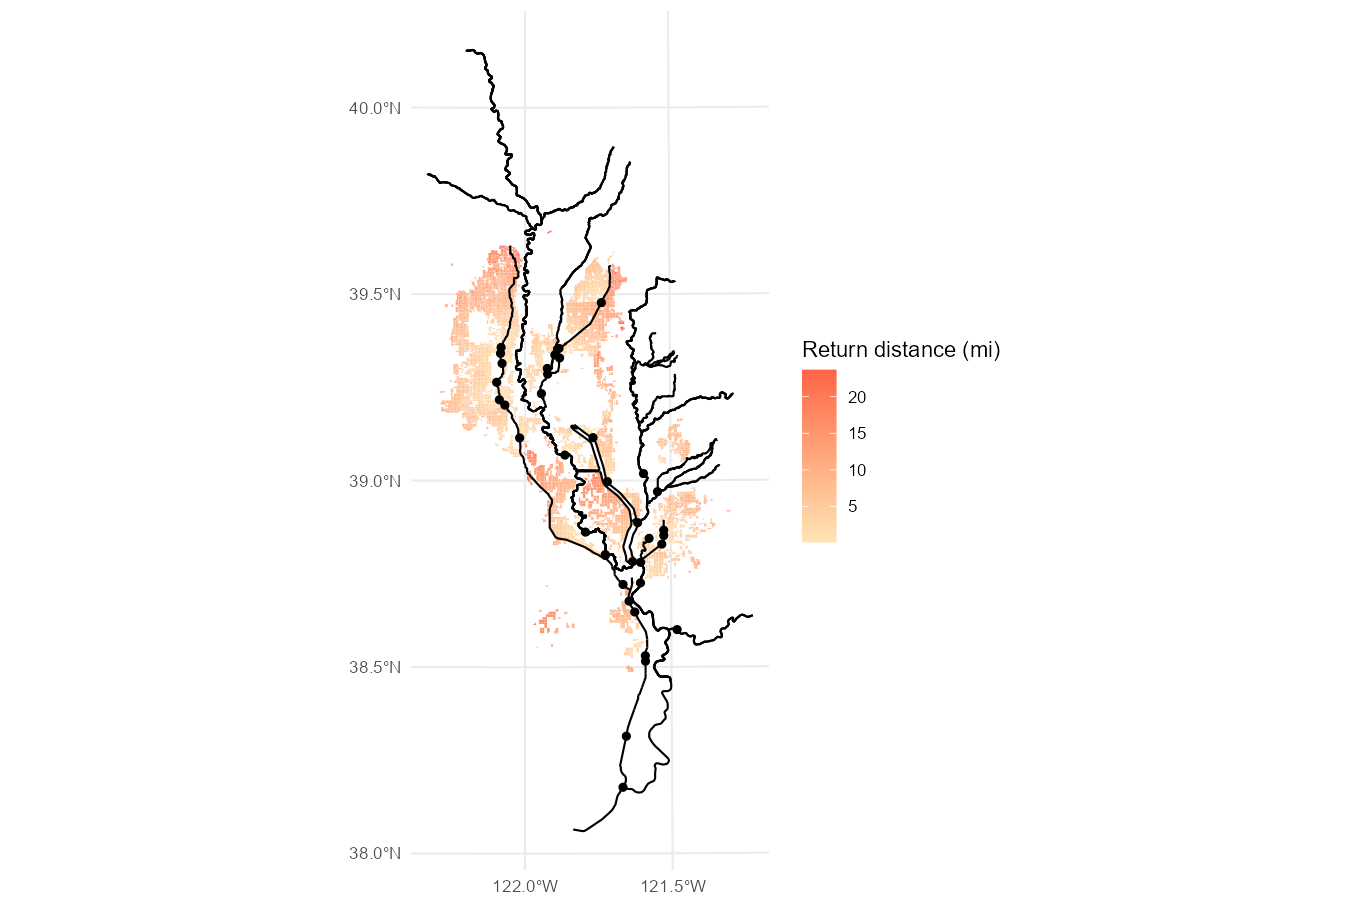
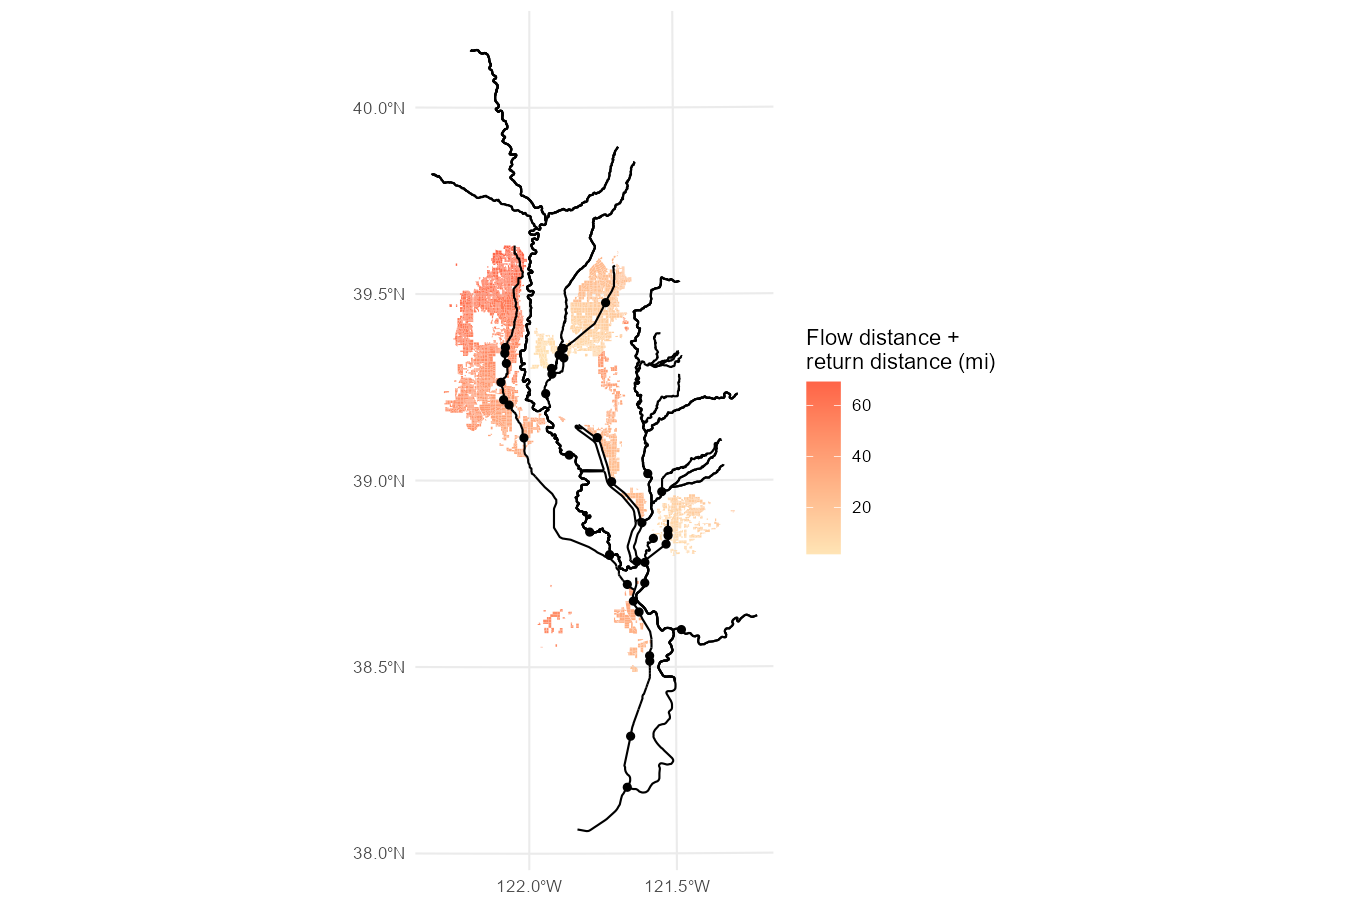
text edits

diff --git a/docs/articles/model.html b/docs/articles/model.html
@@ -89,9 +89,7 @@
   <div class="col-md-9 contents">
     <div class="page-header toc-ignore">
       <h1 data-toc-skip>Modeling Approach and Methods</h1>
-                        <h4 data-toc-skip class="author">FlowWest</h4>
             
-            <h4 data-toc-skip class="date">2023-09-08</h4>
       
       
       <div class="hidden name"><code>model.Rmd</code></div>
@@ -108,60 +106,115 @@ distances from rice fields to fish-bearing streams.</p>
 <p>First, we divided the Sacramento Valley into watersheds based on the
 National Hydrography Dataset (NHD) HUC-10 watersheds, and further split
 them as needed after inspection of drainage canal flow patterns.</p>
-<p>Each watershed’s outlet is a return into either a major fish-bearing
-stream, or into a secondary canal that drains into a fish-bearing
-stream. We identified fish-bearing streams based on prior CVPIA modeling
-work and expert consultation.</p>
+<p>Each watershed was categorized by “flow type”. A “direct” flow type
+identifies a watershed where the point of return is to a salmonid
+rearing stream. An “indirect” flow type identifies a watershed where the
+point of return is to a secondary channel that does not support salmonid
+rearing. A “lateral” flow type identifies a watershed that drains
+laterally into a salmonid rearing stream instead of to a singular point
+of return. Example figures are shown for clarification below.</p>
 <p><img src="model_files/figure-html/model-watersheds-1.png" width="680"></p>
-<p>Watersheds draining directly into fish-bearing streams are considered
-“direct” returns.</p>
+<div class="section level3">
+<h3 id="direct-flow">Direct flow<a class="anchor" aria-label="anchor" href="#direct-flow"></a>
+</h3>
+<p>The following figure shows watersheds that drain directly into
+fish-bearing streams along with their “direct” points of return.</p>
 <p><img src="model_files/figure-html/model-watersheds-direct-1.png" width="680"></p>
-<p>Watersheds draining into secondary canals are considered “indirect”
-returns.</p>
+</div>
+<div class="section level3">
+<h3 id="indirect-flow">Indirect flow<a class="anchor" aria-label="anchor" href="#indirect-flow"></a>
+</h3>
+<p>The following figure shows watersheds that drain indirectly into
+secondary channels along with their “indirect” points of return.</p>
 <p><img src="model_files/figure-html/model-watersheds-indirect-1.png" width="680"></p>
-<p>A third set of watersheds, without defined return points, assumed to
-drain laterally into the fish-bearing stream that they are fronting.</p>
+</div>
+<div class="section level3">
+<h3 id="lateral-flow">Lateral flow<a class="anchor" aria-label="anchor" href="#lateral-flow"></a>
+</h3>
+<p>The following figure shows the third set of watersheds that drain
+laterally into salmonid-rearing streams, without defined return
+points.</p>
 <p><img src="model_files/figure-html/model-watersheds-lateral-1.png" width="680"></p>
 </div>
+</div>
 <div class="section level2">
-<h2 id="distance-calculation">Distance calculation<a class="anchor" aria-label="anchor" href="#distance-calculation"></a>
+<h2 id="distance-calculations">Distance calculations<a class="anchor" aria-label="anchor" href="#distance-calculations"></a>
 </h2>
 <p>We used the center point (centroid) of each rice field to calculate
 distance to either its watershed’s return point (for the direct and
 indirect watersheds) or to the nearest stream (for the lateral flow
 watersheds). In all cases, straight-line distances provided a simple
-distance approximation for this planning-level analysis.</p>
-<p>For the lateral flow watersheds, straight-line distances were
-calculated from the field centroid to the nearest fish-bearing stream
-within the field’s watershed.</p>
-<p><img src="model_files/figure-html/model-distances-lateral-1.png" width="680"></p>
-<p>For all other watersheds, straight-line distances were calculated
-from the field centroid to its assigned watershed return point.</p>
+distance approximation for this planning-level analysis. For indirect
+drainages, flow distances along the secondary channels were calculated
+and added to the straight line distances from the rice fields to the
+point of return. Example figures and details are provided below.</p>
+<div class="section level3">
+<h3 id="direct-flow-1">Direct flow<a class="anchor" aria-label="anchor" href="#direct-flow-1"></a>
+</h3>
+<p>Distances for direct flow watersheds were calculated as simple
+straight-line distances from each rice field centroid to the assigned
+watershed return point, located on a salmonid-rearing stream. The
+following figure shows rice field distances within the direct flow
+watersheds.</p>
+<p><img src="model_files/figure-html/model-distances-direct-1.png" width="680"></p>
+</div>
+<div class="section level3">
+<h3 id="indirect-flow-1">Indirect flow<a class="anchor" aria-label="anchor" href="#indirect-flow-1"></a>
+</h3>
+<p>Distance calculations for indirect watersheds use a combination of a
+simple straight-line distance and a flow distance along the secondary
+channel.</p>
+<p>First, straight-line distances were calculated from each rice field
+centroid to the indirect point of return assigned to the watershed,
+using the same method as the direct returns previously described.</p>
+<p><img src="model_files/figure-html/model-distances-indirect-field-1.png" width="680"></p>
+<p>Then, the flow distances along the secondary channel, from the return
+point (<code>return_id</code>) into the downstream return point on the
+salmonid-rearing stream (<code>dtfbs_id</code>)<a href="#fn1" class="footnote-ref" id="fnref1"><sup>1</sup></a>, were calculated.</p>
+<p><img src="model_files/figure-html/model-distances-indirect-canal-1.png" width="680"></p>
+<p>The straight-line distances were added to the flow distances along
+secondary channels to get a total distance for each field. Total
+distance results for indirect watershed are shown in the following
+figure.</p>
 <p><img src="model_files/figure-html/model-distances-returns-1.png" width="680"></p>
-<p>Each “indirect” return (the watersheds that flowed indirectly to
-fish-bearing streams via a seconary canal) also needed the flow distance
-along the secondary canal from the return point into the downstream
-fish-bearing stream. These distances were calculated using the actual
-flow lengths along the canal lines.</p>
-<p><img src="model_files/figure-html/model-distances-canal-1.png" width="680"></p>
-<p>Field-to-return point distances were added to the indirect canal flow
-distances, where applicable, and combined with the lateral flow dataset
-to produce a final mapping of distances from each rice field to its
-closest fish-bearing stream.</p>
-<p><img src="model_files/figure-html/model-distances-total-1.png" width="680"></p>
+</div>
+<div class="section level3">
+<h3 id="lateral-flow-1">Lateral flow<a class="anchor" aria-label="anchor" href="#lateral-flow-1"></a>
+</h3>
+<p>Distances for lateral flow watersheds were calculated as simple
+straight-line distances from each rice field centroid to the nearest
+salmonid-rearing stream within the watershed. The following figure shows
+rice field distances within the lateral flow watersheds.</p>
+<p><img src="model_files/figure-html/model-distances-lateral-1.png" width="680"></p>
+</div>
+<div class="section level3">
+<h3 id="note-rectangular-distances">Note: Rectangular distances<a class="anchor" aria-label="anchor" href="#note-rectangular-distances"></a>
+</h3>
 <p>An alternative “rectangular” distance calculation was also included,
 using grid distance (east-west plus north-south) rather than
 straight-line (hypotenuse) distance. At the scale of this analysis, the
-difference between the two versions is minimal.</p>
+difference between the two versions is minimal. Total distance results
+using the grid distance are shown in the following figure.</p>
 <p><img src="model_files/figure-html/model-distances-total-rect-1.png" width="680"></p>
 <p>The straight-line and rectangular distance measures help to place a
 lower and upper bound, respectively, on the true flow distance from each
-rice field to its return point. Except for very circuitous flow paths,
-all distances should be between these two values. Rectangular distances
-are never greater than sqrt(2) times the straight-line flow distance, so
-true return flow distances will not be more than 1.41 times the
-straight-line approximation used in this study.</p>
+rice field to the nearest point of return on a salmonid-rearing stream.
+Since the majority of the drainage infrastructure is on a grid pattern,
+all distances should lie between these two values. The following figure
+shows that distances are never greater than sqrt(2) times the
+straight-line flow distance. This means that true return flow distances
+will not be more than 1.41 times the straight-line approximation used in
+this study.</p>
 <p><img src="model_files/figure-html/model-distances-comparison-1.png" width="680"></p>
+</div>
+</div>
+<div class="footnotes footnotes-end-of-document">
+<hr>
+<ol>
+<li id="fn1"><p>Salmonid rearing streams are frequently abbreviated as
+<code>fbs</code> in source code and attribute names; this is short for
+<em>fish-bearing stream</em><a href="#fnref1" class="footnote-back">↩</a></p></li>
+</ol>
 </div>
   </div>
 

diff --git a/docs/articles/joins.html b/docs/articles/joins.html
@@ -89,9 +89,7 @@
   <div class="col-md-9 contents">
     <div class="page-header toc-ignore">
       <h1 data-toc-skip>Data Structure and Joins</h1>
-                        <h4 data-toc-skip class="author">FlowWest</h4>
             
-            <h4 data-toc-skip class="date">2023-09-08</h4>
       
       
       <div class="hidden name"><code>joins.Rmd</code></div>

diff --git a/docs/articles/calcs.html b/docs/articles/calcs.html
@@ -89,9 +89,7 @@
   <div class="col-md-9 contents">
     <div class="page-header toc-ignore">
       <h1 data-toc-skip>Calculation Functions</h1>
-                        <h4 data-toc-skip class="author">FlowWest</h4>
             
-            <h4 data-toc-skip class="date">2023-09-08</h4>
       
       
       <div class="hidden name"><code>calcs.Rmd</code></div>

diff --git a/docs/articles/plot.html b/docs/articles/plot.html
@@ -89,9 +89,7 @@
   <div class="col-md-9 contents">
     <div class="page-header toc-ignore">
       <h1 data-toc-skip>Static Maps and Plots</h1>
-                        <h4 data-toc-skip class="author">FlowWest</h4>
             
-            <h4 data-toc-skip class="date">2023-09-08</h4>
       
       
       <div class="hidden name"><code>plot.Rmd</code></div>
